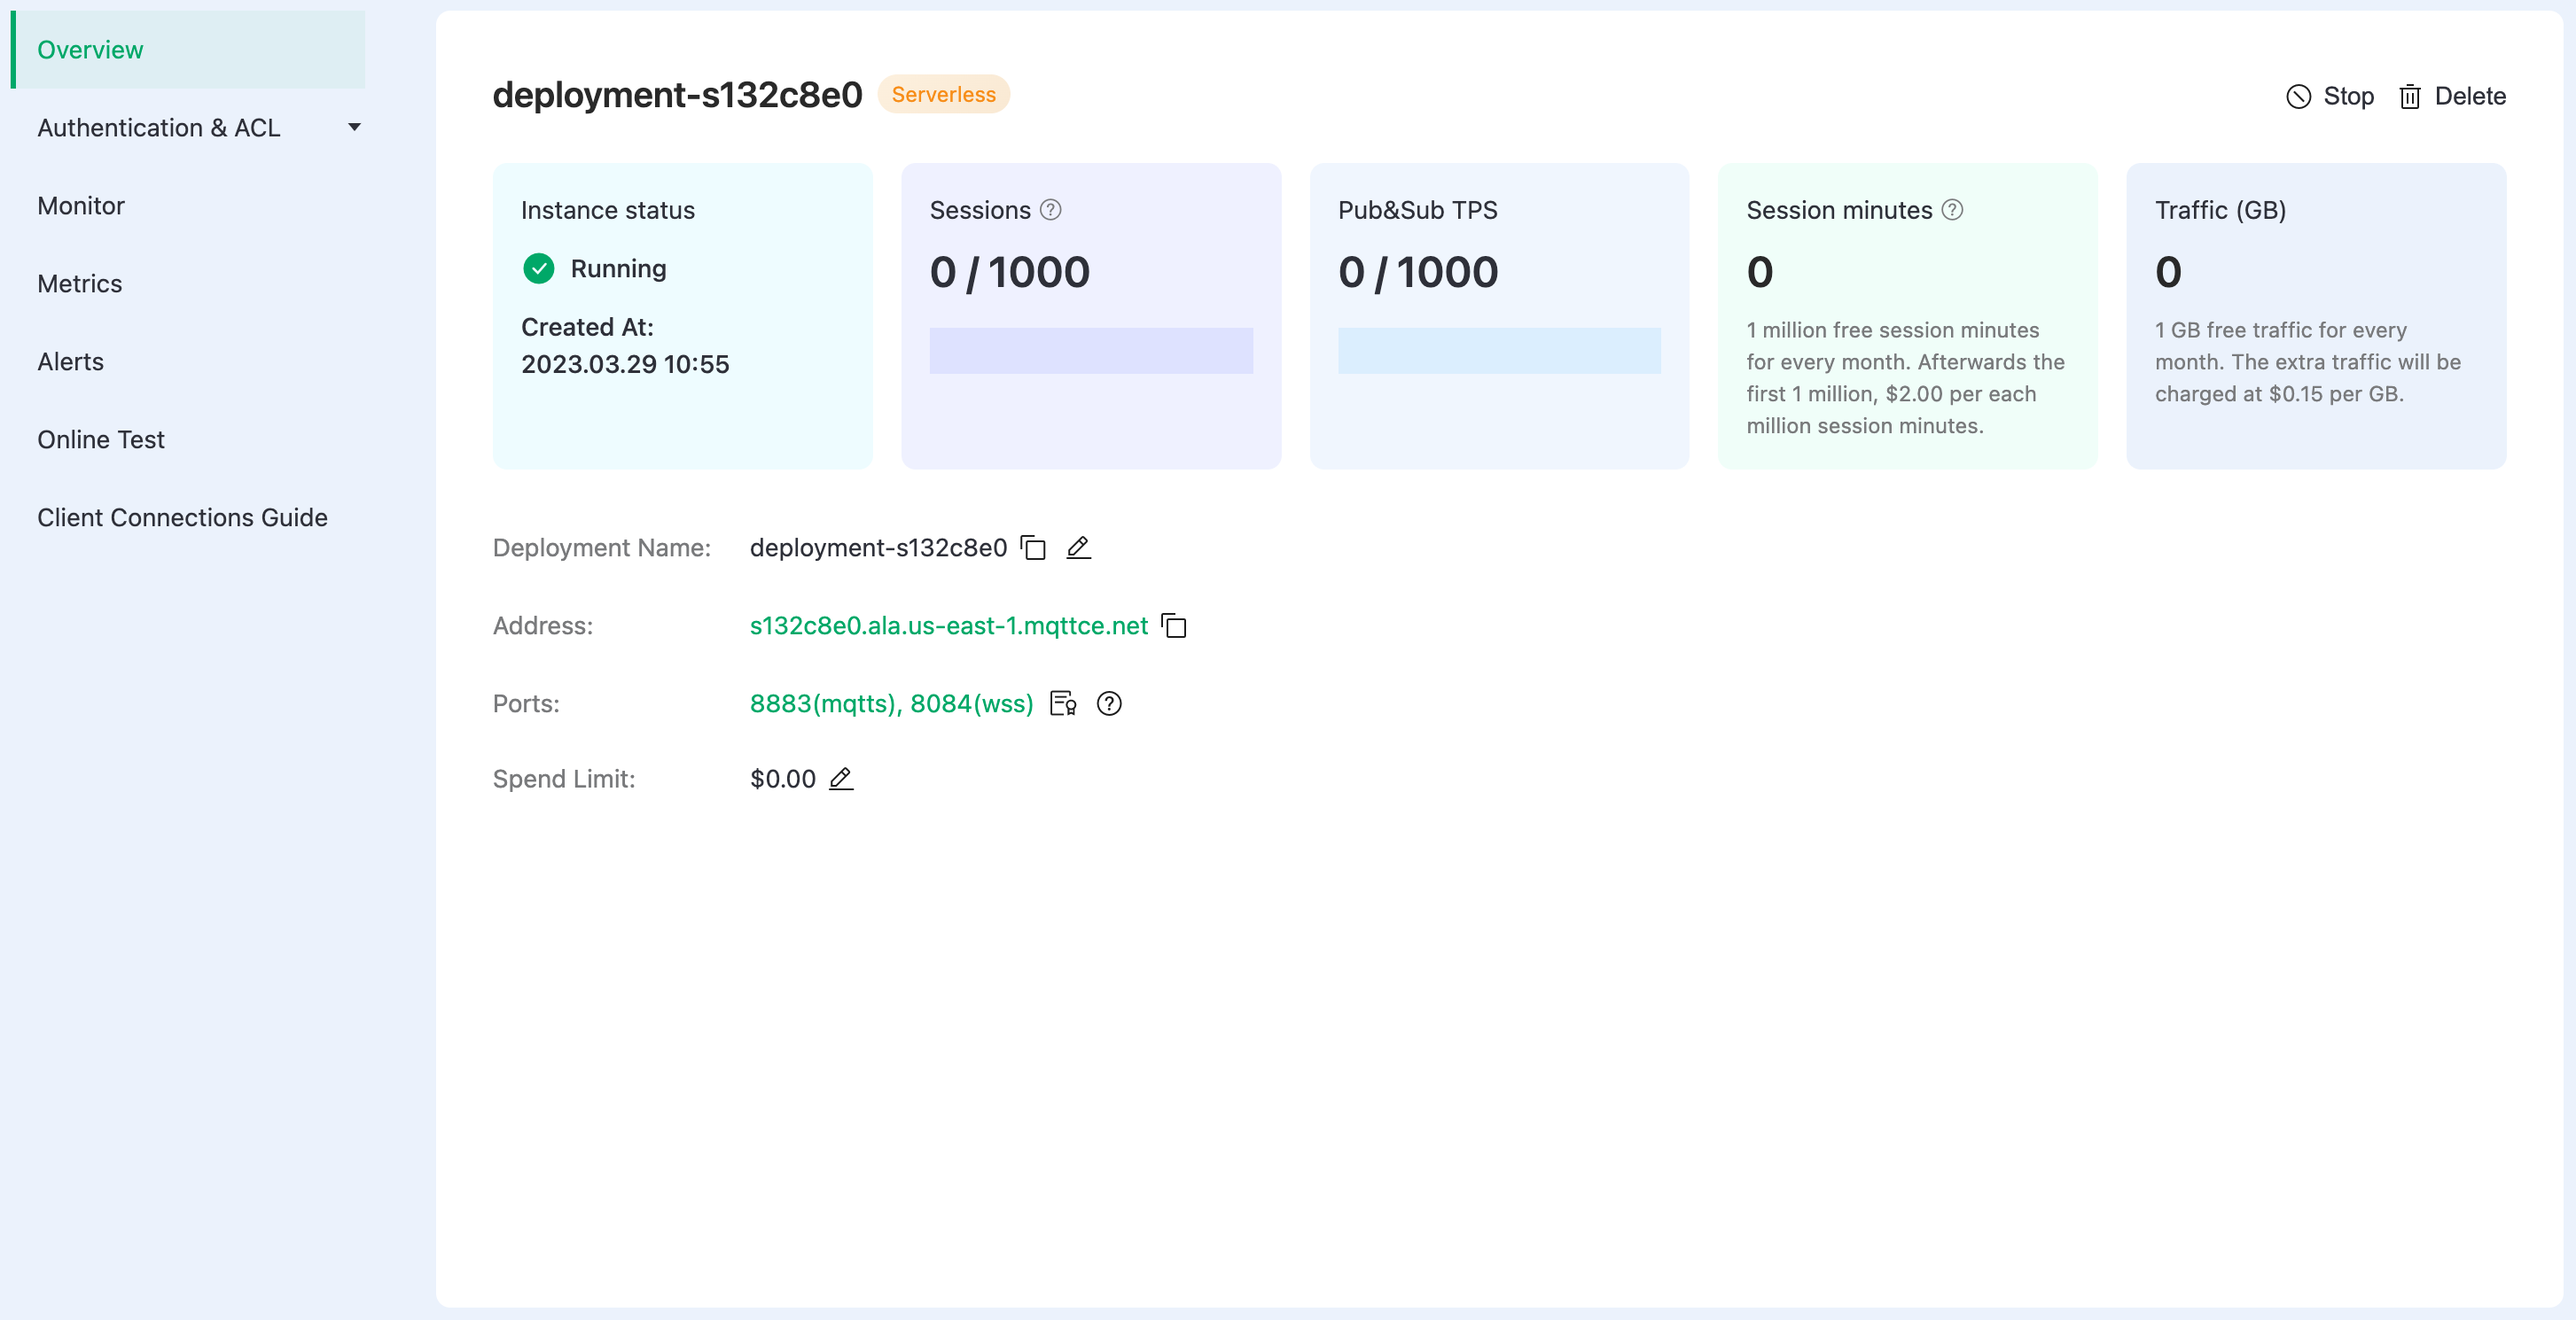
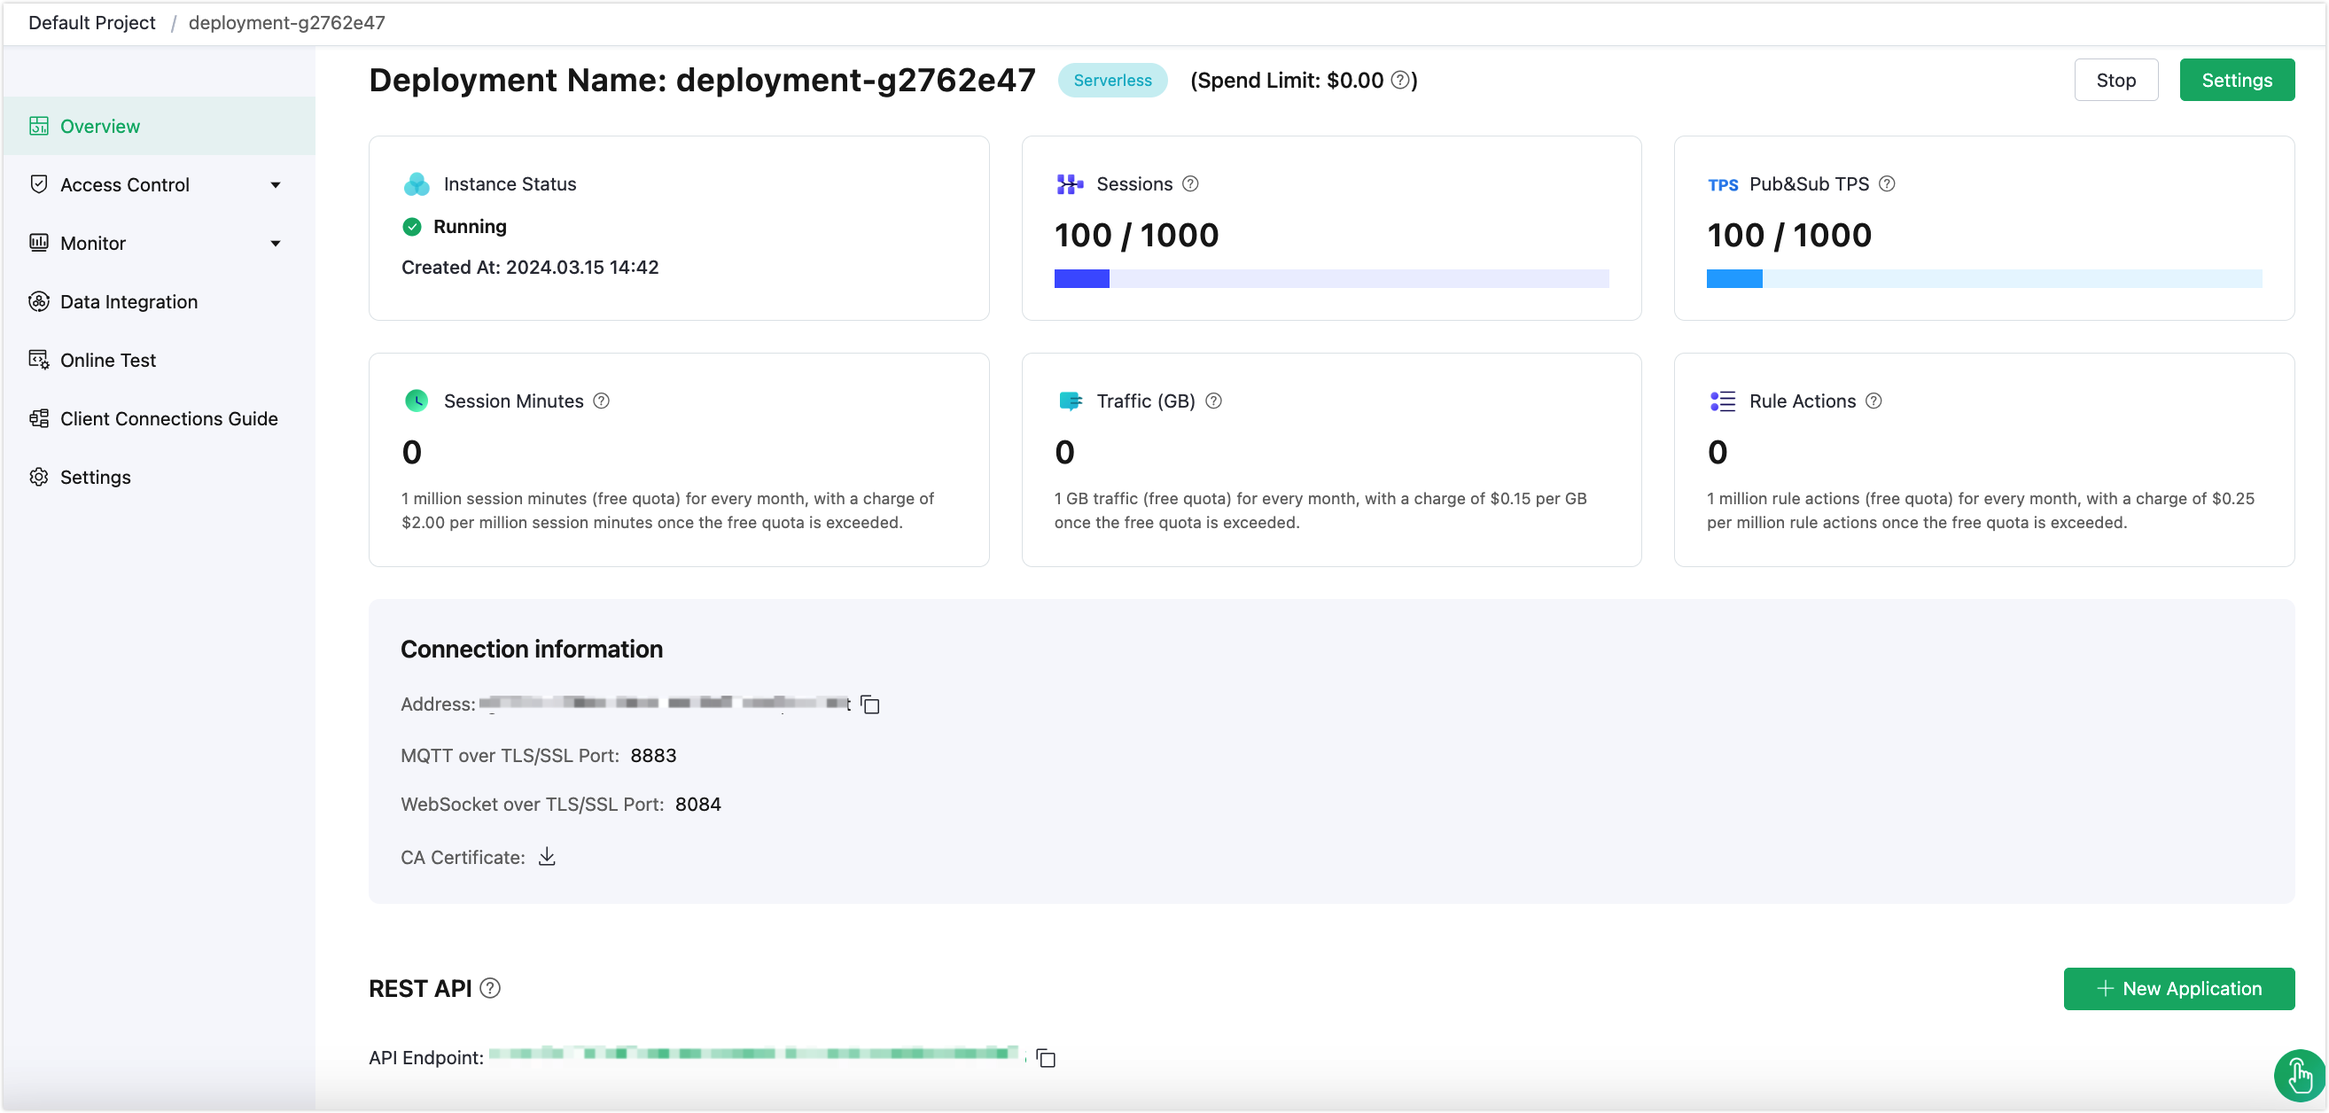
Updated serverless.md and dedicated.md EN files

diff --git a/en_US/create/serverless.md b/en_US/create/serverless.md
@@ -3,43 +3,49 @@
 
 EMQX Cloud Serverless Plan offers a cost-effective and efficient way for developers or small businesses to test and develop IoT applications. This plan is based on secure and scalable clusters and can be easily deployed in just a few simple steps.
 
-One of the biggest advantages of using Serverless deployment is that the billing for connection scenarios is based on actual usage. For more detailed information on the billing system, please refer to the pricing section in [Pricing and Billing](../price/pricing.md).
+One of the biggest advantages of using Serverless deployment is that it is billed based on actual usage. For more detailed information on the billing system, see the Pricing section in [Pricing and Billing](../price/pricing.md).
 
 
-## Create Deployment
+## Create a Deployment
 
 1. Log in to [EMQX Cloud console](https://cloud-intl.emqx.com/console/). 
-2. You can create a new deployment for a specific project from either the Console homepage or the deployment list page. Click **+ New**.  
-3. Click **Start for free** on the **Serverless** tab.![create_serverless](./_assets/create_serverless.png)
 
-4. In the **New Deployment** page, you can set the monthly Spend Limit for your Serverless deployment to control usage and avoid unexpected charges beyond the free resources. It's initially set to 0, but can be modified after creation. Then click **Deploy** at the page bottom to start the process. 
+2. To initiate a new deployment for your project, navigate to either the Console's homepage or the Deployment List page. Here, click **+ New Deployment**.
 
-![create_serverless](./_assets/create_serverless_spendlimit.png)
+3. Select the **Serverless** tab.
 
-5. As part of the deployment process, you'll be asked to agree to the *EMQX Cloud Services Agreement*, please review the agreement carefully and accept it if you agree with its terms. 
-6. After agreeing to the agreement, the deployment process will begin. You can monitor the progress on the **Projects** page, and once the status changes to **Running**, your deployment has been successfully created and is ready for use.
+   <img src="./_assets/create_serverless.png" alt="create_serverless" style="zoom:50%;" />
+
+4. Specify the monthly **Spend Limit** for your Serverless deployment. This feature helps manage usage and prevent incurring charges beyond the complimentary resources. By default, it is set to 0 but can be adjusted after creation.
+
+5. Under **Deployment Name & Project**, provide a name for your deployment and select the appropriate project.
+
+6. Click the **Deploy** button on the right to launch the deployment. This stage will prompt you to review and accept the *EMQX Cloud Services Agreement*. It's important to thoroughly read the agreement and accept its terms to proceed.
+
+5. Upon accepting the terms, the deployment will begin. The deployment's progress can be tracked on the **Projects** page. Once the status updates to **Running**, your deployment is successfully established and is now operational.
 
 
 ## View Deployment
 
 After the deployment is created, it will appear on the Cloud console home page. Click the Serverless deployment card to enter the deployment overview page. On the overview page, you can check the real-time status and connection information for your deployment.
 
-   ![serverless](./_assets/serverless_overview.png)
+![serverless](./_assets/serverless_overview.png)
 
-- **Instance status:** Running status and duration of operation.
-- **Sessions:** Current and maximum connection counts.
+### Basice Information
+
+- **Instance Status:** Running status and duration of operation.
+- **Sessions:** Current number of connections and maximum connection limits.
 - **Pub&Sub TPS:** Current messages sent and received per second, as well as the TPS limit.
-- **Session minutes**: Total number of session minutes used this month. This value is calculated with a one-hour delay.
+- **Session Minutes**: Total number of session minutes used this month. The count of this value has a delay of 1 hour.
 - **Traffic:** Usage information for the deployed traffic, including monthly usage and free quota.
-- **Deployment name:** A customizable name for the deployment.
+- **Rule Actions**: The number of rule actions executed this month. The count of this value has a delay of 1 hour.
+- **Spend Limit**: The maximum spending limit set for the deployment in the current month. For more information, see the [Spend Limit](../deployments/spend_limit.md) settings.
+
+### Connection Information
+
 - **Address:** The address for the client/terminal device to connect EMQX Cloud.
 - **Ports:** `8883` (mqtts) and `8084` (wss) are enabled by default. Check out the [connection guide](../deployments/port_guide_serverless.md) to learn more.
-- **Spend Limit**: Maximum spending limit for the current month. For more information, please refer to the [Spend Limit](../deployments/spend_limit.md) page.
-
-::: warning Note
-Serverless deployment only supports ports `8883` (mqtts) and `8084` (wss). If your client needs a CA file, you can click [here](https://assets.emqx.com/data/emqxsl-ca.crt) to download.
-
-:::
+- **CA Certificate**: If the client needs to verify the server's CA, click to download this certificate.
 
 ## Connect to Serverless Deployment Using MQTTX
 

diff --git a/en_US/create/dedicated.md b/en_US/create/dedicated.md
@@ -1,33 +1,27 @@
 # Create Dedicated Deployment
 
-EMQX Cloud's Dedicated Plan offers independent MQTT service instances/clusters with higher connection and TPS limits, as well as greater scalability. This guide will use the Dedicated Plan (Professional) as an example to walk you through the steps of creating and utilizing EMQX Cloud.
+EMQX Cloud's Dedicated Plan offers independent MQTT service clusters with with higher connection and Transactions Per Second (TPS) limits. It also supports more advanced features and complex network architectures. This guide uses the Dedicated Plan (Professional) as an example to walk you through the steps of creating and utilizing EMQX Cloud.
 
 ## Create a Deployment
 
 1. Log in to [EMQX Cloud console](https://cloud-intl.emqx.com/console/). 
 
-2. You can create a new deployment for a specific project from either the console homepage or the deployment list page. Click **+ New**.  
+2. To initiate a new deployment for your project, navigate to either the Console's homepage or the Deployment List page. Here, click **+ New Deployment**.
 
-3. Click **Create Now** on the **Dedicated** tab.
+3. Select the **Dedicated** tab.
 
-   ![select_deployment_type](./_assets/create_serverless.png)
+   ![select_deployment_type](./_assets/create_dedicated.png)
 
-4. Choose the appropriate tier and configurations based on your needs.
+4. Configure the specification according to your needs.
 
-   - **Plan**: Choose the product plan.
-- **Choose Cloud Platform**: You can choose from AWS, Azure, or Google Cloud. 
-   - **Choose Region**: Choose the region to deploy EMQX Cloud. To deploy your EMQX Cloud in a different region, you can submit a request via a [ticket](../feature/tickets.md) or [email][cloud-support@emqx.io]. 
-- **Choose Tier**: Each tier has different limits on the maximum number of connections and transactions per second (TPS), which can be upgraded or downgraded in later stages.
-   - **Billing Method**: Choose between **Hourly billing** or Annual prepaid (with a 15% of discount).
+   - **Cloud Provider & Region**: See [Cloud Service Providers and Regions](../price/plans.md#supported-cloud-service-providers-and-regions) for support.
+   - **Tier**: Select the specification from the drop-down box. Each specification limits a different maximum number of connections and TPS. If your requirements are not met, you can [contact us](https://www.emqx.com/contact?product=cloud).
+   - **Billing Method**: You can select `Hourly billing` (to pay by the hour) or `Annual prepaid` (an annual billing plan).
+   - **Deployment Name & Project**: Provide a name for your deployment and select the appropriate project.
 
-   ![select_deployment_spec](./_assets/select_deployment_spec.png)
+5. Confirm the deployment information in the **Summary** area, and then click the **Deploy** button. This stage will prompt you to review and accept the *EMQX Cloud Services Agreement*. It's important to thoroughly read the agreement and accept its terms to proceed.
 
-5. Double-check your settings in the **New Deployment** tab, and click **Deploy**. 
-
-6. As part of the deployment process, you'll be asked to agree to the *EMQX Cloud Services Agreement*, please review the agreement carefully and accept it if you agree with its terms. 
-
-7. After agreeing to the agreement, the deployment process will begin and take about 5 minutes to complete. You can monitor the progress on the **Projects** page, and once the status changes to **Running**, your deployment has been successfully created and is ready for use.
-
+6. Upon accepting the terms, the deployment will begin. Once the deployment status changes to **Running**, your deployment is successfully created and ready for use.
 
 ## View Deployment
 
@@ -35,18 +29,17 @@ After the deployment is created, it will appear on the Cloud console home page. 
 
 ![dedicated](./_assets/dedicated_overview.png)
 
-- **Instance status:** Running status and duration of operation.
+### Basic Information
+
+- **Instance Status:** Running status and duration of operation.
 - **Sessions:** Current and maximum connection counts.
 - **Pub&Sub TPS:** Current messages sent and received per second, as well as the TPS limit.
 - **Traffic:** Usage information for the deployed traffic, including monthly usage and free quota.
-- **Deployment name:** A customizable name for the deployment.
-- **Tiers:** The current tier of the deployment, including the ability to switch from hourly billing to annual billing.
-- **Address:**
-  - Professional Plan: IP
-  - Standard Plan: Domain name ending with emqx.cloud
-- **Ports:**
-  - Professional Plan: `1883` (mqtt) and `8083` (ws) are enabled by default. You can configure TLS/SSL to enable 8883 (mqtts) and 8084 (wss) ports.
-  - Standard Plan: `15xxx` (mqtt), `15xxx` (mqtts), `8083` (ws), and `8084` (wss) ports are enabled by default.
+
+### Connection Information
+
+- **Address**: The IP address
+- **Ports**: `1883` (mqtt) and `8083` (ws) are enabled by default. You can configure TLS/SSL to enable `8883` (mqtts) and `8084` (wss) ports.
 
 Check out the [Connection guide](../deployments/port_guide_dedicated.md) to learn more.
 

diff --git a/zh_CN/create/dedicated.md b/zh_CN/create/dedicated.md
@@ -14,12 +14,12 @@ EMQX Cloud 专有版提供独立的 MQTT 服务集群，有更高的连接上限
 
 4. 依据您的需求选择相应规格配置。
 
-   - 云平台和区域：请查看[云服务商和地区](../price/plans.md#支持云服务商和地区)支持
-   - 选择规格：每类规格限制了不同的连接数上限和 TPS 上限。如无法满足您的要求，可以[联系我们](https://www.emqx.com/zh/contact?product=cloud)。
-   - 可以选择按小时计费或包年计费购买。
-   - 设置部署名称和项目。
+   - **云平台和区域**：请查看[云服务商和地区](../price/plans.md#支持云服务商和地区)支持。
+   - **规格**：从下拉框中选择。每类规格限制了不同的连接数上限和 TPS 上限。如无法满足您的要求，可以[联系我们](https://www.emqx.com/zh/contact?product=cloud)。
+   - **计费类型**：可以选择按小时计费或包年计费购买。
+   - **部署名称和项目**：为部署设置名称并选择所属项目。
 
-6. 确认部署信息后，点击 **立即部署**。并同意 EMQX Cloud 标准服务条款开始创建。
+6. 确认部署信息后，点击 **立即部署**，并同意 EMQX Cloud 标准服务条款开始创建。
 
 7. 部署创建需要一定的时间，当部署运行状态为**运行中**后，部署创建完成并可使用。
 
@@ -32,18 +32,18 @@ EMQX Cloud 专有版提供独立的 MQTT 服务集群，有更高的连接上限
 
 ### 基本信息
 
-* 实例状态：运行状态和运行时长
-* 连接数：当前连接数和最大连接数
-* 消息上下行 TPS：部署当前每秒钟消息发送和接收条数，以及 TPS 上限。
-* 流量： 部署本月已经使用的流量以及免费流量额度显示。
+* **实例状态**：运行状态和运行时长。
+* **连接数**：当前连接数和最大连接数。
+* **消息上下行 TPS**：部署当前每秒钟消息发送和接收条数，以及 TPS 上限。
+* **流量**： 部署本月已经使用的流量以及免费流量额度显示。
 
 
 ### 连接信息
-* 连接地址：客户端连接到部署的地址
+* **连接地址**：客户端连接到部署的地址。
 
-* 连接端口：默认开启 1883(MQTT TCP 端口)、8083(WebSocket 端口)，您可以通过配置 TLS/SSL 开启 8883(MQTT TLS/SSL 端口) 和 8084(WebSocket TLS/SSL) 端口。
+* 连接端口：默认开启 `1883` (MQTT TCP 端口)、`8083` (WebSocket 端口)，您可以通过配置 TLS/SSL 开启 `8883` (MQTT TLS/SSL 端口) 和 `8084` (WebSocket TLS/SSL) 端口。
 
-建议查看 [端口连接指引](../deployments/port_guide_dedicated.md) 了解协议和端口。
+建议查看[端口连接指引](../deployments/port_guide_dedicated.md)了解协议和端口。
 
 ## 部署功能使用
 
